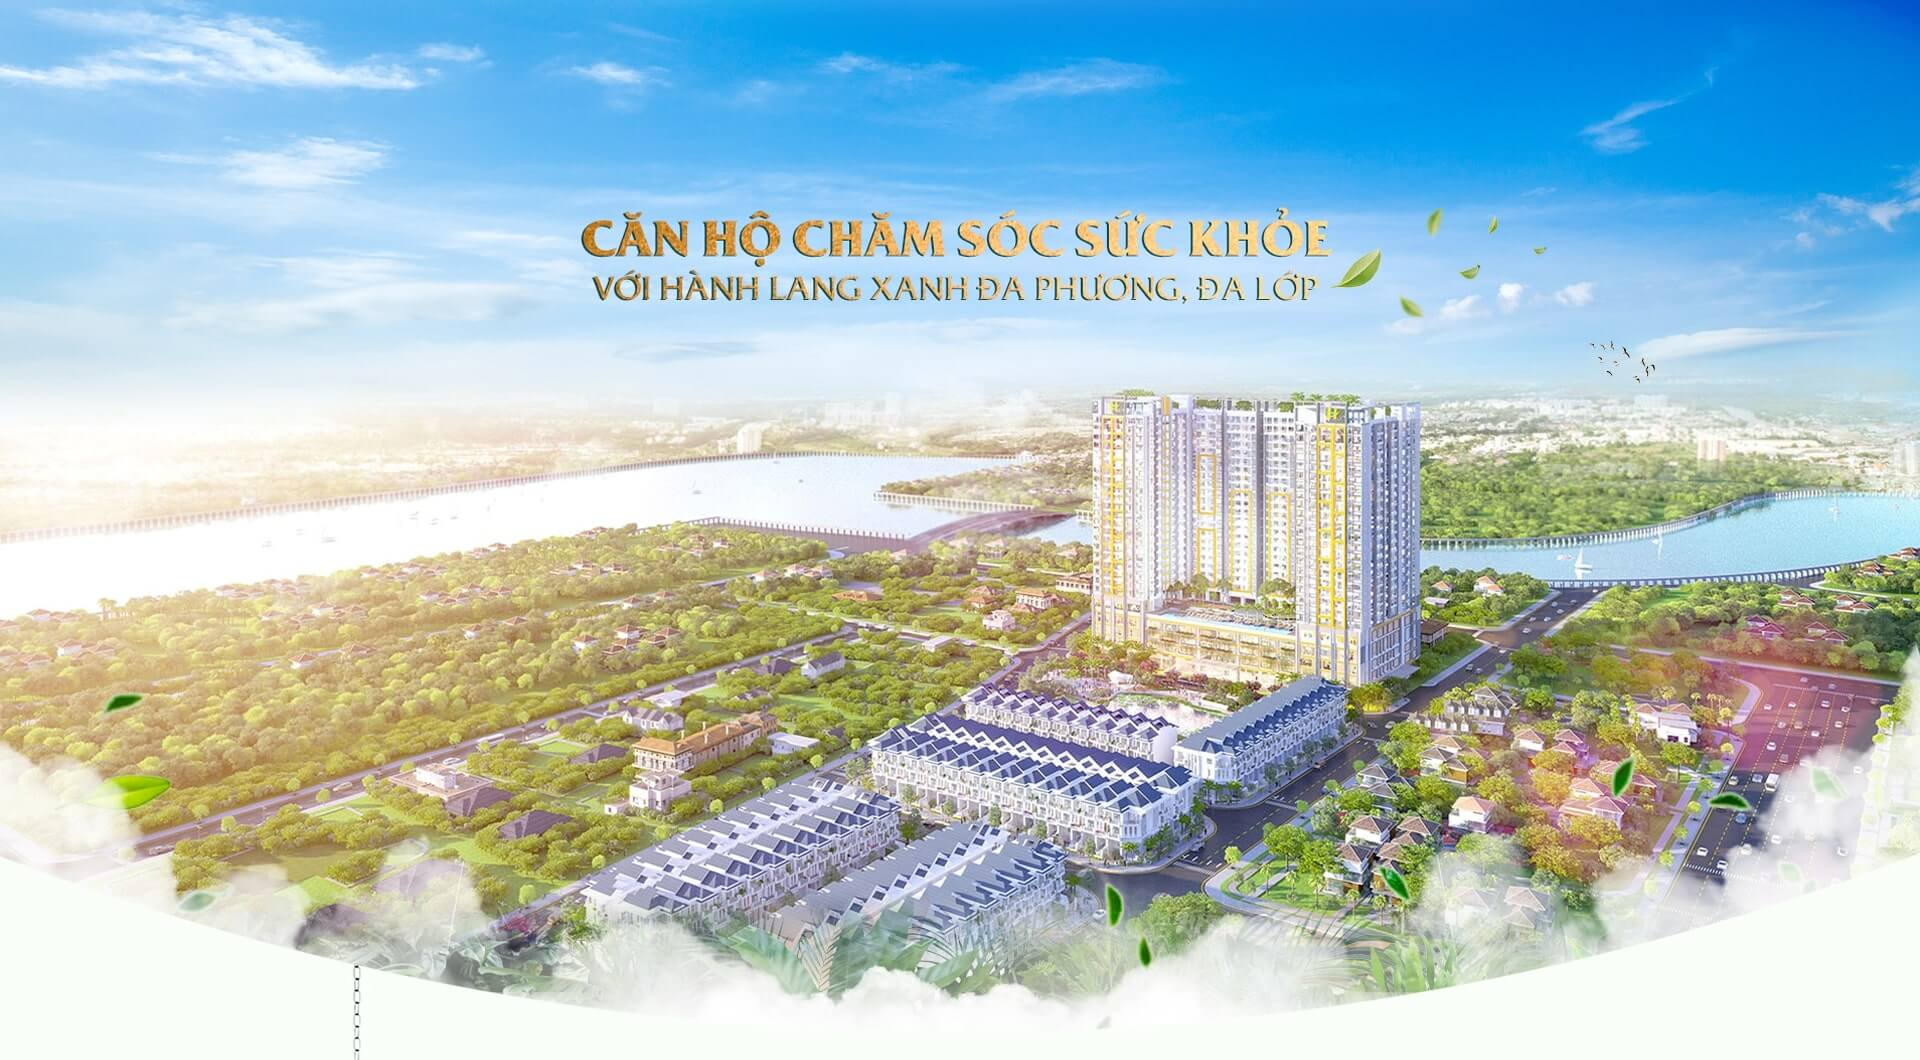
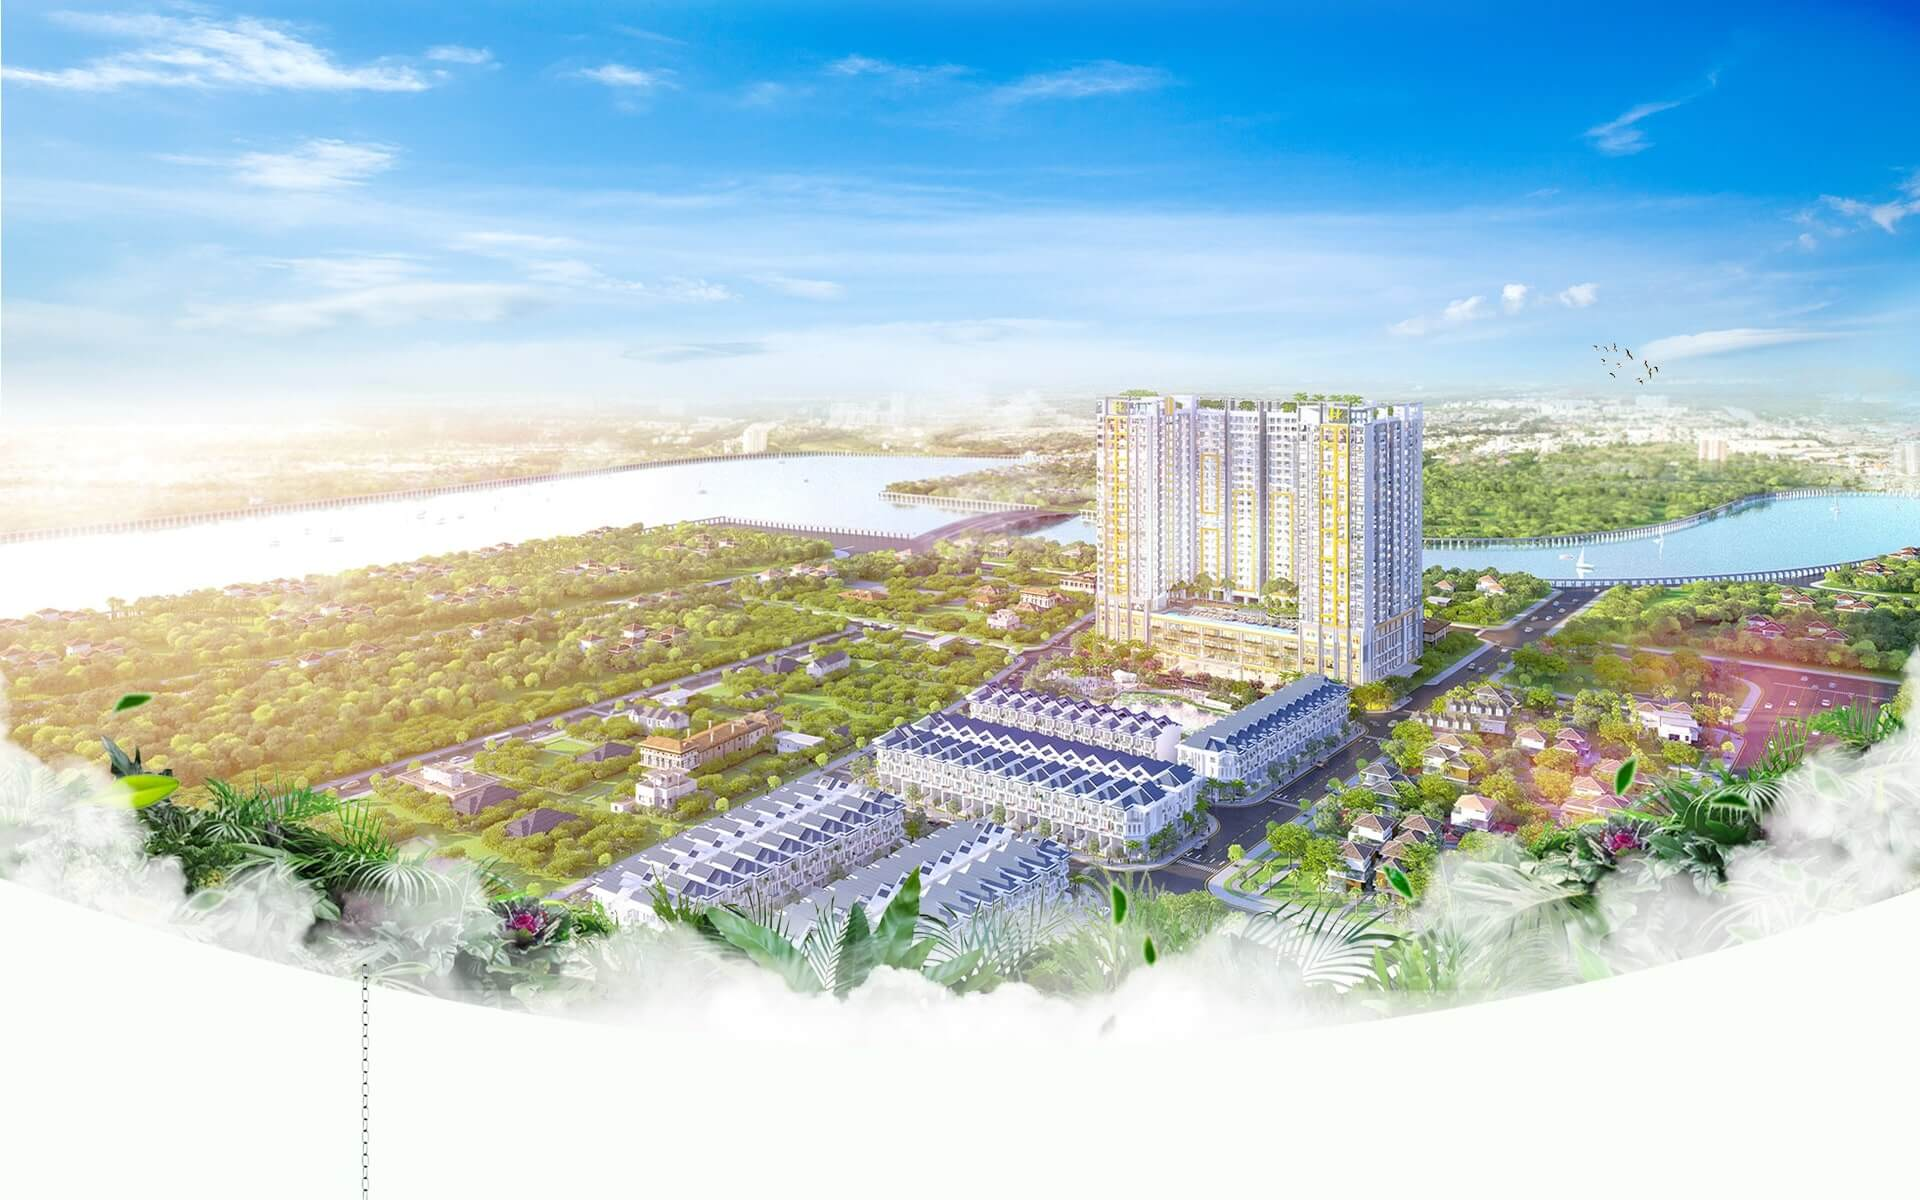
fix img

diff --git a/assets/script/index-cus.js b/assets/script/index-cus.js
@@ -40,8 +40,11 @@ $(function(){
             menu: 'Liên hệ',
             link: '#footer'
         }],
+        titlemain:[{
+            img: './assets/images/title-news/title-0-vi.png'
+        }],
         introduce: [{
-            title: 'Liệu pháp không gian sống "Thời đại lo âu',
+            img: './assets/images/title-news/title-1-vi.png',
             desc: 'Green Star Sky Garden không đơn thuần của một căn hộ để ở, đây được xem như tuyệt tác độc bản là nơi khởi nguồn đặc quyền về một cuộc sống: Thanh lọc cơ thể - Bảo vệ sức khoẻ - Khơi nguồn năng lượng thể chất lẫn tinh thần'
         }],
         ecological: [{
@@ -225,9 +228,9 @@ $(function(){
         },
         renderAllVi: function() {
             const htmlintro = this.introduce.map(intro => {
-                return `<div class="banner_title title-introduce">
-                            <h4>${intro.title}</h4>
-                        </div>
+                return `<a class="item-link" href="/">
+                            <img class="lazyload" width="630" height="100" data-src="${intro.img}" alt="banner">
+                        </a>
                         <div class="banner_subtitle">
                             <p>${intro.desc}</p>
                         </div>`
@@ -501,6 +504,12 @@ $(function(){
                             <a href="${item.link}">${item.title}</a>
                         </li>`;
             });
+            //htmltitlemain
+            const htmltitlemain = this.titlemain.map(item => {
+                return `<a class="item-link" href="/">
+                        <img class="lazyload" width="630" height="100" data-src="${item.img}" alt="banner">
+                    </a>`;
+            });
 
             //render
             $('.item-banner-content').html(htmlintro.join(''));
@@ -533,6 +542,7 @@ $(function(){
             $('.pnewle-form button.btn-outline').html(htmlfrbtn.join(''));
             $('.brand-title').html(htmltitlepart.join(''));
             $('.nav-mobile-menu #menu-main-menu').html(htmlmenumobile.join(''));
+            $('.title-banner-main').html(htmltitlemain.join(''));
         
         },
         start: function() {
@@ -570,8 +580,11 @@ $(function(){
             menu: 'Contacts',
             link: '#footer'
         }],
+        titlemain: [{
+            img: './assets/images/title-news/title-0-en.png'
+        }],
         introduce: [{
-            title: 'Spatial Therapy "Anxiety Age"',
+            img: './assets/images/title-news/title-1-en.png',
             desc: 'The Peak Garden is not just an apartment to live in, this is considered as a unique masterpiece and the originate of privileged: Purifying Body - Protecting Health - Unleashing Physical and Mental Energy '
         }],
         ecological: [{
@@ -755,9 +768,9 @@ $(function(){
         },
         renderAllEn: function() {
             const htmlintro = this.introduce.map(intro => {
-                return `<div class="banner_title title-introduce">
-                            <h4>${intro.title}</h4>
-                        </div>
+                return `<a class="item-link" href="/">
+                            <img class="lazyload" width="630" height="100" data-src="${intro.img}" alt="banner">
+                        </a>
                         <div class="banner_subtitle">
                             <p>${intro.desc}</p>
                         </div>`
@@ -1032,6 +1045,12 @@ $(function(){
                             <a href="${item.link}">${item.title}</a>
                         </li>`;
             });
+            //htmltitlemain
+            const htmltitlemain = this.titlemain.map(item => {
+                return `<a class="item-link" href="/">
+                        <img class="lazyload" width="630" height="100" data-src="${item.img}" alt="banner">
+                    </a>`;
+            });
 
             $('.item-banner-content').html(htmlintro.join(''));
             $('.sth_title').html(htmlsttt.join(''));
@@ -1063,8 +1082,8 @@ $(function(){
             $('.pnewle-form button.btn-outline').html(htmlfrbtn.join(''));
             $('.brand-title').html(htmltitlepart.join(''));
             $('.nav-mobile-menu #menu-main-menu').html(htmlmenumobile.join(''));
+            $('.title-banner-main').html(htmltitlemain.join(''));
         
-
 
         },
         start: function() {
@@ -1083,13 +1102,13 @@ $(function(){
    
     if($(window).width() < 1024){ 
         if(localStorage.getItem('template') == 'vi'){
-            $('.lang-mobile').html('<span>VI</span>');
+            $('.lang-mobile').html('<span>EN</span>');
             $('.lang-mobile').addClass('change-en');
         }else if(localStorage.getItem('template') == 'en'){             
-            $('.lang-mobile').html('<span class="lang-change-vi">EN</span>');
+            $('.lang-mobile').html('<span>VI</span>');
             $('.lang-mobile').addClass('change-vi');
         }else { 
-            $('.lang-mobile').html('<span class="lang-change-en">VI</span>');
+            $('.lang-mobile').html('<span>EN</span>');
             $('.lang-mobile').addClass('change-en');
         }
         $('.lang-mobile.change-en').on('click', function(){

diff --git a/assets/styles/main.scss b/assets/styles/main.scss
@@ -113,7 +113,7 @@ background: #004951;
                     font-size: 14px;
                     text-transform: uppercase;
                     position: relative;
-                    padding: 0 17px;
+                    padding: 0 10px;
                     cursor: pointer;
                 }
             }
@@ -206,7 +206,7 @@ position: relative;
 .wrapper-banner_content {
     .item-banner-content {
         position: absolute;
-        top: 17%;
+        top: 5%;
         transform: translate(-50%, -30%);
         left: 50%;
         text-align: center;
@@ -579,7 +579,7 @@ padding: 70px 0;
             justify-content: center;
             align-items: center;
             margin: 30px 0;
-            @media (max-width:767px) {
+            @media (max-width:991px) {
                 flex-wrap: wrap;
             }
             .htp-tablink {
@@ -592,6 +592,9 @@ padding: 70px 0;
                 padding: 5px 5px;
                 border-radius: 5px;
                 font-weight: 500;
+                @media (max-width: 991px) {
+                    margin-bottom: 15px;
+                }
                 @media (max-width: 767px) {
                     font-size: 14px;
                     margin-bottom: 15px;
@@ -1112,7 +1115,8 @@ background: #f9f9f9;
         vertical-align: middle;
         text-align: left;
         background: #004951;
-        width: 500px;
+        //width: 500px;
+        width: 100%;
         height: 100%;
         padding: 40px 20px 20px;
         overflow: auto;
@@ -1150,11 +1154,11 @@ background: #f9f9f9;
         text-transform: uppercase;
     }
     #menu-open-mob.active {
-        z-index: 9999;
+        //z-index: 9999;
         position: relative;
         i {
             &::before {
-                content: "\f00d";
+               //content: "\f00d";
             }
         }
     }
@@ -1347,6 +1351,24 @@ background: #f9f9f9;
         align-items: center;
     }
 }
+.menu-close-mb {
+    font-size: 30px;
+    color: #dbc570;
+    font-weight: normal;
+    position: absolute;
+    left: 20px;
+    top: 10px;
+}
 
-
-
+.hompage-banner-main {
+    position: relative;
+    .title-banner-main {
+        position: absolute;
+        top: 19%;
+        left: 55%;
+        transform: translate(-50%,-50%);
+        img {
+            max-height: 100px;
+        }
+    }
+}

diff --git a/assets/styles/main.css b/assets/styles/main.css
@@ -106,7 +106,7 @@ img {
   font-size: 14px;
   text-transform: uppercase;
   position: relative;
-  padding: 0 17px;
+  padding: 0 10px;
   cursor: pointer;
 }
 .mainheader-height .header-navbar-menu .item-link-lang {
@@ -190,7 +190,7 @@ img {
 }
 .hompage-banner-secc .wrapper-banner_content .item-banner-content {
   position: absolute;
-  top: 17%;
+  top: 5%;
   transform: translate(-50%, -30%);
   left: 50%;
   text-align: center;
@@ -570,7 +570,7 @@ img {
   align-items: center;
   margin: 30px 0;
 }
-@media (max-width: 767px) {
+@media (max-width: 991px) {
   .section-plane .grid_sth__content .place-table .htp-tablinks-el {
     flex-wrap: wrap;
   }
@@ -585,6 +585,11 @@ img {
   padding: 5px 5px;
   border-radius: 5px;
   font-weight: 500;
+}
+@media (max-width: 991px) {
+  .section-plane .grid_sth__content .place-table .htp-tablinks-el .htp-tablink {
+    margin-bottom: 15px;
+  }
 }
 @media (max-width: 767px) {
   .section-plane .grid_sth__content .place-table .htp-tablinks-el .htp-tablink {
@@ -1083,7 +1088,7 @@ img {
     vertical-align: middle;
     text-align: left;
     background: #004951;
-    width: 500px;
+    width: 100%;
     height: 100%;
     padding: 40px 20px 20px;
     overflow: auto;
@@ -1131,11 +1136,7 @@ img {
 }
 @media (max-width: 1023px) {
   #menu-open-mob.active {
-    z-index: 9999;
     position: relative;
-  }
-  #menu-open-mob.active i::before {
-    content: "";
   }
 }
 @media (max-width: 1023px) {
@@ -1319,4 +1320,26 @@ img {
 #owl-brand-logo .owl-stage {
   display: flex;
   align-items: center;
+}
+
+.menu-close-mb {
+  font-size: 30px;
+  color: #dbc570;
+  font-weight: normal;
+  position: absolute;
+  left: 20px;
+  top: 10px;
+}
+
+.hompage-banner-main {
+  position: relative;
+}
+.hompage-banner-main .title-banner-main {
+  position: absolute;
+  top: 19%;
+  left: 55%;
+  transform: translate(-50%, -50%);
+}
+.hompage-banner-main .title-banner-main img {
+  max-height: 100px;
 }/*# sourceMappingURL=main.css.map */

diff --git a/index.html b/index.html
@@ -50,6 +50,7 @@
                                     </a>
                                     <div class="main">
                                         <div class="bar">
+                                            <a id="close-menu" class="menu-close-mb"><i class="fa fa-times"></i></a>
                                             <a class="nv-logo" href="/" title="">
                                                 <img src="./assets/images/mobile/logo-12.png" alt="logo">
                                             </a>
@@ -102,6 +103,11 @@
                     <div class="item-bannerm">
                         <a class="item-link" href="/">
                             <img class="lazyload" width="1425" height="787" data-src="./assets/images/banner/banner-main-type2.jpg" alt="banner">
+                        </a>
+                    </div>
+                    <div class="title-banner-main">
+                        <a class="item-link" href="/">
+                            <img class="lazyload" width="630" height="100" src="./assets/images/title-news/title-0-vi.png" alt="banner">
                         </a>
                     </div>
                 </div>

diff --git a/assets/script/main.js b/assets/script/main.js
@@ -137,6 +137,11 @@ $(document).ready(function() {
 		$(".sub-head").toggleClass("active");
         $("#menu-open-mob").toggleClass("active");
 	})
+    $("#close-menu").click(function(){
+		$(".sub-head").removeClass("active");
+        $("#menu-open-mob").removeClass("active");
+	})
+    
     /* */
     $('#formbaogia').submit(function(e){
         e.preventDefault();
